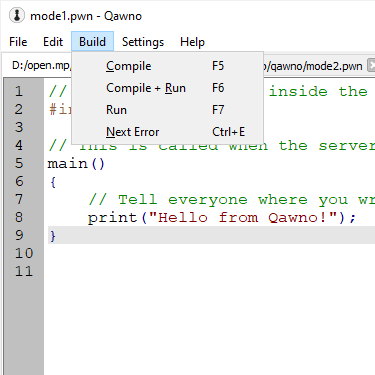
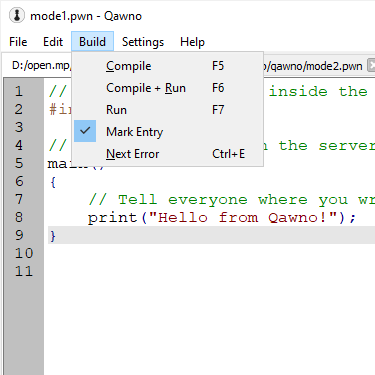
Mark Entry.

Changed region(s): [[0.176, 0.3227, 0.704, 0.4693]]

diff --git a/src/MainWindow.cpp b/src/MainWindow.cpp
@@ -323,6 +323,10 @@ void MainWindow::currentChanged(int index) {
 }
 
 void MainWindow::tabCloseRequested(int index) {
+  if (markedIndex_ == index) {
+    markedIndex_ = -1;
+    ui_->actionMark->setChecked(false);
+  }
   ui_->tabWidget->setCurrentIndex(index);
   on_actionClose_triggered();
 }
@@ -1693,7 +1697,7 @@ void MainWindow::on_actionCompile_triggered() {
   }
   on_actionSaveAll_triggered();
   Compiler compiler;
-  const QString& fileName = fileNames_[getCurrentIndex()];
+  const QString& fileName = fileNames_[markedIndex_ == -1 ? getCurrentIndex() : markedIndex_];
   ui_->output->clear();
   ui_->output->resetErrorCounter();
   ui_->output->appendPlainText(compiler.commandFor(fileName));
@@ -1728,11 +1732,20 @@ void MainWindow::errorClicked() {
   }
 }
 
+void MainWindow::on_actionMark_triggered() {
+  if (markedIndex_ == -1) {
+    markedIndex_ = getCurrentIndex();
+  } else {
+    markedIndex_ = -1;
+  }
+  ui_->actionMark->setChecked(markedIndex_ != -1);
+}
+
 void MainWindow::on_actionRun_triggered() {
   if (fileNames_.isEmpty()) {
     return;
   }
-  server_.run(fileNames_[getCurrentIndex()]);
+  server_.run(fileNames_[markedIndex_ == -1 ? getCurrentIndex() : markedIndex_]);
 }
 
 void MainWindow::on_actionCompileRun_triggered() {

diff --git a/src/MainWindow.h b/src/MainWindow.h
@@ -65,6 +65,7 @@ class MainWindow: public QMainWindow {
   void on_actionCompile_triggered();
   void on_actionCompileRun_triggered();
   void on_actionRun_triggered();
+  void on_actionMark_triggered();
   void on_actionNextErr_triggered();
   void on_actionDelline_triggered();
   void on_actionDupline_triggered();
@@ -169,6 +170,7 @@ class MainWindow: public QMainWindow {
   int findStart_ = 0;
   int findRound_ = 0;
   int mruIndex_ = 0;
+  int markedIndex_ = -1;
   int newCount_ = 0;
   QMap<QString, int> words_;
 };

diff --git a/README.md b/README.md
@@ -66,6 +66,7 @@ Provides visual access to all the editor features and options.
 * *Compile* - Use the pawn compiler to convert the current file in to a .AMX.  Will save *all* open files first as the main script may depend on other files being edited at the same time.
 * *Compile + Run* - Compile the code as with *Compile*, and then attempt to run the open.mp server and lauch the current mode.  If a server is already open this will first kill that instance so that clients/players connected will automatically re-connect.
 * *Run* - Relaunch the server with the current script.
+* *Mark Entry* - Mark the current tab as the one always compiled.
 * *Next Error* - Jump straight to the location in code of the next error *or warning* from the output.
 
 ![The Settings menu.](documentation/menu-settings.png)
@@ -213,7 +214,9 @@ This shows the numbers for each line, i.e. how far down in the file they are.  C
 
 ### Invoking The Compiler
 
-`Build -> Compile` in the menu, or `F5` will compile the current file.  You can see the command used to perform the compile, along with the eventual output, in the compiler output area ***5***.  A common command will look something like:
+`Build -> Compile` in the menu, or `F5` will compile the **current** file by default.  However, it is often the case (or should be) that multiple open files are part of the same mode, and thus the compiler should always build from the same entry point.  Going to one tab, editing some code, then returning to the main script to compile can get annoying (even with *MRU*), so there is an extra option in the build menu - *Mark Entry*.  When enabled this will denote the current tab as the main tab (the *entry point*) and the *compile* and *run* commands will use that tab instead of the current tab.
+
+You can see the command used to perform the compile, along with the eventual output, in the compiler output area ***5***.  A common command will look something like:
 
 ```
 pawncc -;+ -(+ -\ -Z- "-rD:/open.mp/gamemodes/YSI_TEST" "-iinclude" -d0 -O2 -t4 "-iD:/open.mp/gamemodes/YSI_TEST" "-oD:/open.mp/gamemodes/YSI_TEST" "D:/open.mp/gamemodes/YSI_TEST.pwn"
@@ -231,7 +234,7 @@ See the compiler settings for more command-line configuration options.
 
 ### Running The Server
 
-`Build -> Run` in the menu, or `F6` will compile the current file as above, then also start an open.mp server instance with the successfully compiled code (assuming it was successfully compiled).  Every time you use `F6` any existing server will be force-closed and a new one started as a trick to force the client to reconnect:
+`Build -> Compile + Run` in the menu, or `F6` will compile the current file as above, then also start an open.mp server instance with the successfully compiled code (assuming it was successfully compiled).  Every time you use `F6` any existing server will be force-closed and a new one started as a trick to force the client to reconnect.  If you don't want to recompile as well use `F7` instead:
 
 ![Launching the server.](documentation/server-launch.png)
 